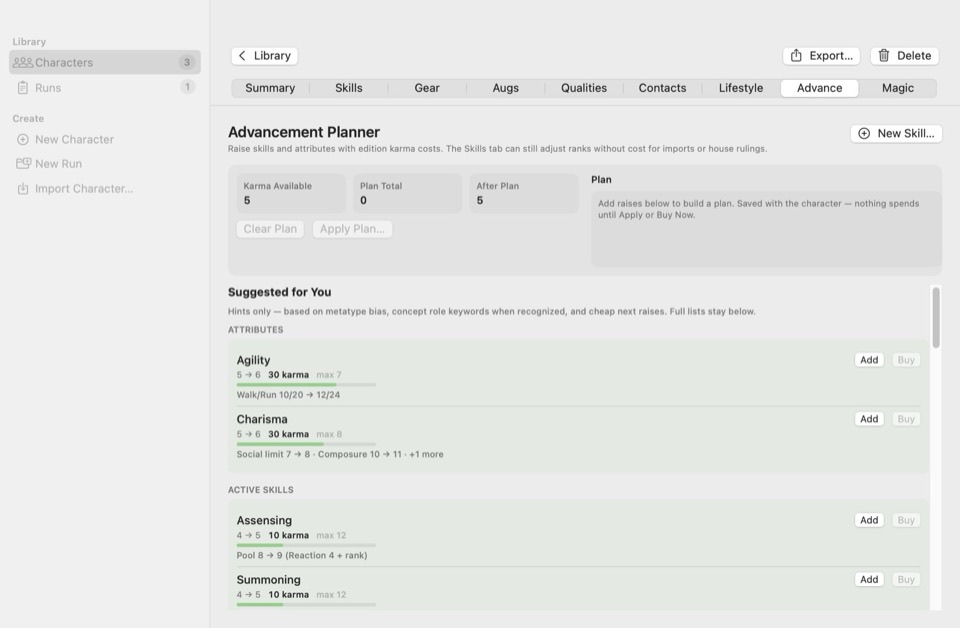
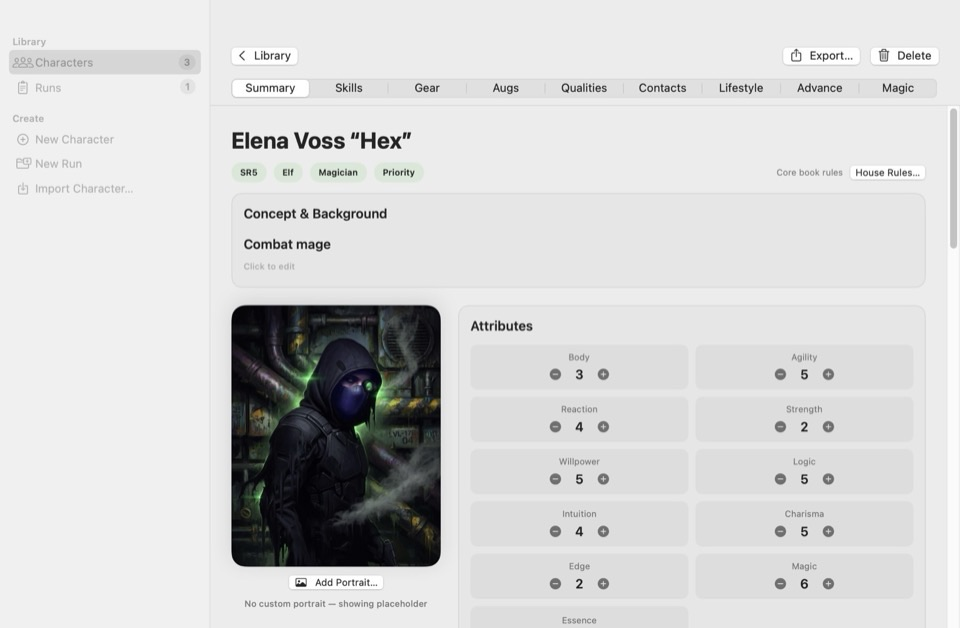
Show Summary tab on the character play-sheet marquee.
Marketing capture no longer switches to Advance for 04-character-sheet;
the README play-sheet shot is the Summary workspace again.

diff --git a/ShadowDeck/UI/ContentView.swift b/ShadowDeck/UI/ContentView.swift
@@ -622,11 +622,8 @@ struct ContentView: View {
             selection = .characters
             refresh()
             // Always the SR5 sample combat mage (seeded in marketingCapture library).
+            // Marquee “play sheet” stays on Summary (default tab).
             selectedCharacterID = SampleCharacters.sr5ID
-            // Showcase Advancement Planner on the marquee character-sheet shot.
-            DispatchQueue.main.asyncAfter(deadline: .now() + 0.35) {
-                NotificationCenter.default.post(name: AppCommand.characterSheetShowAdvanceTab, object: nil)
-            }
         case .runLibrary:
             selectedCharacterID = nil
             marketingOpenRunID = nil

diff --git a/Docs/Screenshots/README.md b/Docs/Screenshots/README.md
@@ -11,7 +11,7 @@ Scripts/capture_readme_screenshots.sh
 | `01-splash.jpg` | Launch splash (hero) |
 | `02-library.jpg` | Character Library |
 | `03-generation-role.jpg` | Wizard · Concept & Role |
-| `04-character-sheet.jpg` | Character sheet · Advancement Planner |
+| `04-character-sheet.jpg` | Character play sheet (Summary) |
 | `05-run-library.jpg` | Run Library |
 | `06-run-detail.jpg` | Run detail / mission planner |
 | `thumbs/02–06-*.jpg` | Equal-size UI thumbnails (linked from README) |
